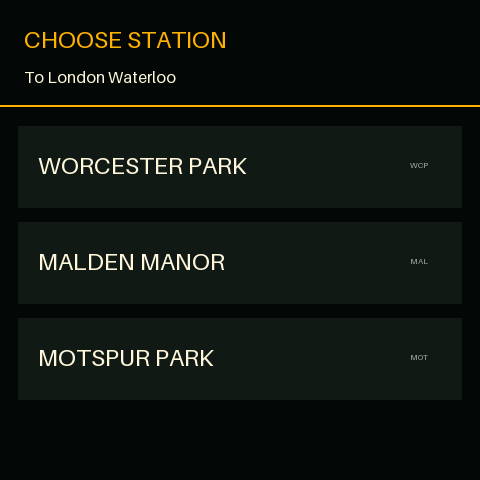
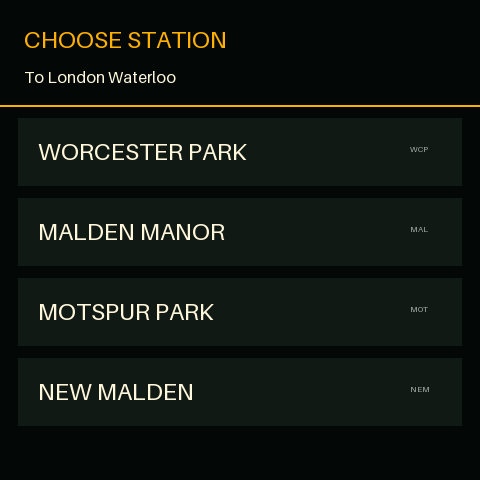
feat: add New Malden station option

diff --git a/tests/test_train_app.py b/tests/test_train_app.py
@@ -20,10 +20,11 @@ class TrainAppTest(unittest.TestCase):
 
     def test_station_rows_map_to_picker_indexes(self):
         self.assertEqual(station_index_at(200, 150), 0)
-        self.assertEqual(station_index_at(200, 250), 1)
-        self.assertEqual(station_index_at(200, 350), 2)
+        self.assertEqual(station_index_at(200, 210), 1)
+        self.assertEqual(station_index_at(200, 290), 2)
+        self.assertEqual(station_index_at(200, 370), 3)
         self.assertIsNone(station_index_at(10, 150))
-        self.assertIsNone(station_index_at(200, 430))
+        self.assertIsNone(station_index_at(200, 440))
 
     def test_default_station_codes(self):
         self.assertEqual(
@@ -32,6 +33,7 @@ class TrainAppTest(unittest.TestCase):
                 ("WCP", "Worcester Park"),
                 ("MAL", "Malden Manor"),
                 ("MOT", "Motspur Park"),
+                ("NEM", "New Malden"),
             ),
         )
 

diff --git a/lib/board_view.py b/lib/board_view.py
@@ -59,11 +59,11 @@ class BoardView:
         self._rule(105)
         for index, station in enumerate(stations):
             crs, name = station
-            y = 126 + index * 96
+            y = 118 + index * 80
             self.display.set_pen(self.panel)
-            self.display.rectangle(18, y, 444, 82)
-            self._text(name.upper(), 38, y + 24, self.cream, 3, 350)
-            self._text(crs, 410, y + 34, self.muted, 1)
+            self.display.rectangle(18, y, 444, 68)
+            self._text(name.upper(), 38, y + 18, self.cream, 3, 350)
+            self._text(crs, 410, y + 26, self.muted, 1)
         self.presto.update()
 
     def render_loading(self, station_name="TRAIN DISPLAY", message="Connecting to live departures"):

diff --git a/lib/train_app.py b/lib/train_app.py
@@ -13,12 +13,13 @@ from lib.uk_time import format_clock
 DEPARTURE_TOP = 96
 DEPARTURE_HEIGHT = 104
 DEPARTURE_COUNT = 3
-STATION_PICKER_TOP = 126
-STATION_PICKER_ROW_HEIGHT = 96
+STATION_PICKER_TOP = 118
+STATION_PICKER_ROW_HEIGHT = 80
 DEFAULT_STATIONS = (
     ("WCP", "Worcester Park"),
     ("MAL", "Malden Manor"),
     ("MOT", "Motspur Park"),
+    ("NEM", "New Malden"),
 )
 
 

diff --git a/README.md b/README.md
@@ -8,7 +8,8 @@ required.
 
 ## What it does
 
-- Starts with a touch picker for Worcester Park, Malden Manor or Motspur Park.
+- Starts with a touch picker for Worcester Park, Malden Manor, Motspur Park or
+  New Malden.
 - Shows the next three direct services to London Waterloo.
 - Displays scheduled time, live status, platform and calling points.
 - Opens a Journey focus screen when a departure is tapped.
@@ -24,7 +25,7 @@ renderer using representative Darwin data.
 
 | Station picker | Departure board | Journey focus |
 |:--:|:--:|:--:|
-| ![Station picker offering Worcester Park, Malden Manor and Motspur Park](docs/images/presto-station-picker.png) | ![Live-style Worcester Park departure board](docs/images/presto-platform-board.png) | ![Journey focus for a Worcester Park to London Waterloo train](docs/images/presto-journey-focus.png) |
+| ![Station picker offering Worcester Park, Malden Manor, Motspur Park and New Malden](docs/images/presto-station-picker.png) | ![Live-style Worcester Park departure board](docs/images/presto-platform-board.png) | ![Journey focus for a Worcester Park to London Waterloo train](docs/images/presto-journey-focus.png) |
 
 ## Requirements
 
